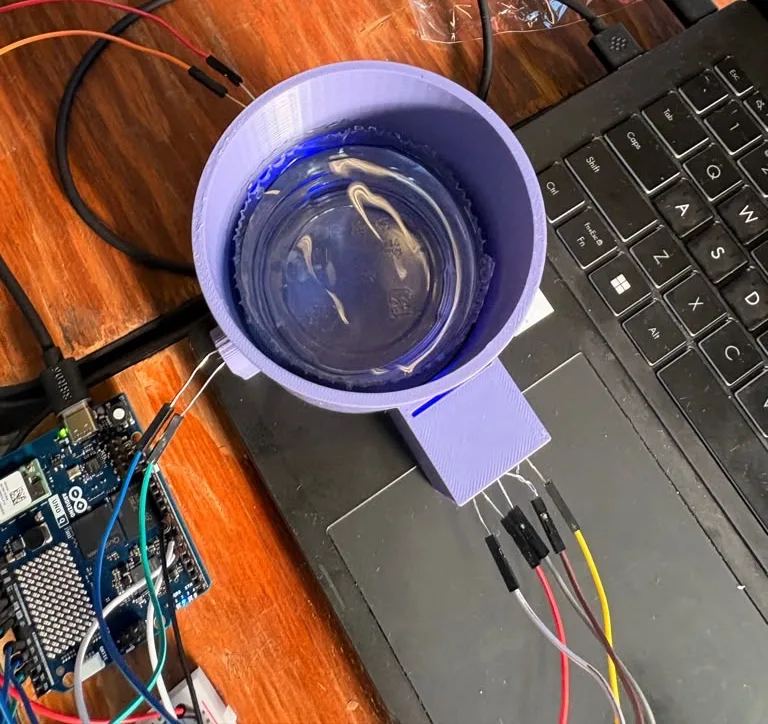
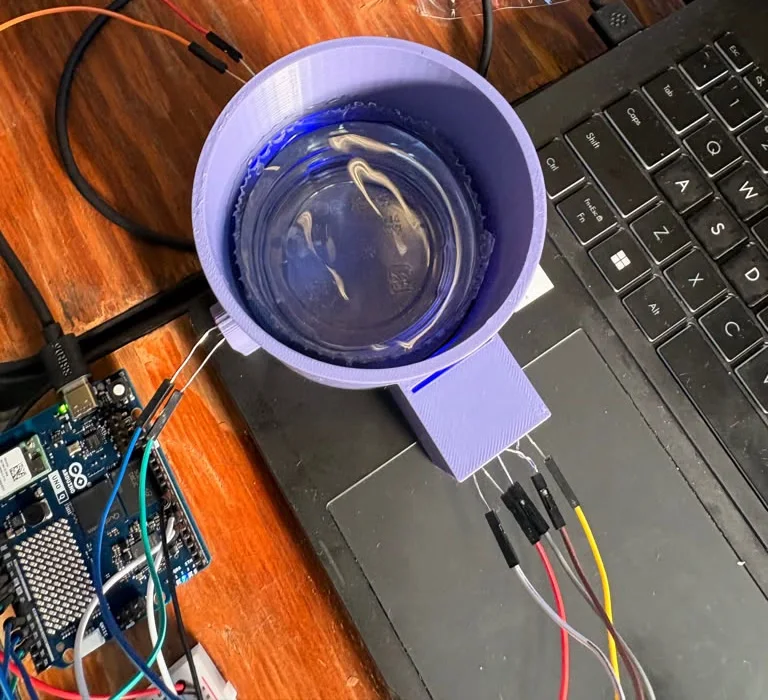
site review fixes: #demo chart fits phones (labels above bars), sticky phones only in two columns (no caption over #clinic heading), CTA gradient + muted grey + chip blue to >=4.5:1, hero-meta labels on their own line, exact verdict words in prose, nav: Limits link dropped, 'How', brand gap 32, labe

diff --git a/pill-site/index.html b/pill-site/index.html
@@ -6,7 +6,7 @@
   <title>Pill — The box measures. Pill explains.</title>
   <meta name="description" content="A dissolution check the size of a coffee mug, built from hobby parts: it dissolves one tablet and says Passed the screen, Needs lab testing or Unable to verify. Built at Cal Hacks 13.0.">
   <meta property="og:title" content="Pill — The box measures. Pill explains.">
-  <meta property="og:description" content="One tablet. A 60 s quick run, 2–10 min full. PASS / NEEDS LAB / UNABLE TO VERIFY. In clinic mode the answer holds the supplier's payment.">
+  <meta property="og:description" content="One tablet. A 60 s quick run, 2–10 min full. Passed the screen, Needs lab testing or Unable to verify. In clinic mode the answer holds the supplier's payment.">
   <meta property="og:type" content="website">
   <link rel="icon" href="/favicon.svg" type="image/svg+xml">
   <link rel="preload" href="/fonts/instrument-serif-400.woff2" as="font" type="font/woff2" crossorigin>
@@ -23,7 +23,7 @@
       <a href="#film">Film</a>
       <a href="#station">Station</a>
       <a href="#problem">Problem</a>
-      <a href="#how">How it works</a>
+      <a href="#how">How</a>
       <a href="#story">Story</a>
       <a href="#table">At the table</a>
       <a href="#verdicts">Verdicts</a>
@@ -31,7 +31,6 @@
       <a href="#clinic">Clinic</a>
       <a href="#payments">Payments</a>
       <a href="#coinbase">Coinbase</a>
-      <a href="#limits">Limits</a>
       <a href="#team">Team</a>
     </nav>
     <a class="btn nav-app" href="https://pill-app-delta.vercel.app/welcome" target="_blank" rel="noopener">Open the app <span class="arrow" aria-hidden="true">→</span></a>
@@ -114,11 +113,11 @@
       <h2 class="h2" id="built-title">Built Saturday, at the table.</h2>
       <p class="lead reveal" style="margin-top:20px">The drawing above is this station. A purple 3D-printed chamber, a clear cup of water, three LEDs, two photoresistors, an Arduino UNO Q, a breadboard and a laptop. Stirred by hand with a stick.</p>
       <div class="build-grid">
-        <figure class="build-ph build-ph--lead reveal"><img src="/photos/station-171.webp" width="768" height="724" loading="lazy" decoding="async" alt="Top view of the station with the lid off and the blue LED on: a clear plastic cup of water inside the purple printed cylinder, blue light at the near wall where the LED box is attached, jumper wires running to the LED legs and to the Arduino UNO Q on the left"><figcaption><b>Blue LED on, lid off.</b> Light from the LED box (bottom) crosses the clear cup of water in the printed well.</figcaption></figure>
+        <figure class="build-ph build-ph--lead reveal"><img src="/photos/station-171.webp" width="768" height="700" loading="lazy" decoding="async" alt="Top view of the station with the lid off and the blue LED on: a clear plastic cup of water inside the purple printed cylinder, blue light at the near wall where the LED box is attached, jumper wires running to the LED legs and to the Arduino UNO Q on the left"><figcaption><b>Blue LED on, lid off.</b> Light from the LED box (bottom) crosses the clear cup of water in the printed well.</figcaption></figure>
         <figure class="build-ph reveal"><img src="/photos/station-191.webp" width="768" height="1024" loading="lazy" decoding="async" alt="Close-up of the purple LED box on the side of the chamber: a white, a blue and a red 5 mm LED in a row with jumper wires on their legs, two empty holes above and below the blue LED, and a thin slot on top"><figcaption><b>The LED box.</b> White, blue and red 5 mm LEDs, two spare holes, the diffuser slot on top.</figcaption></figure>
         <figure class="build-ph reveal"><img src="/photos/station-102.webp" width="768" height="834" loading="lazy" decoding="async" alt="The station with its flat purple lid on, a small hole in the lid, the LED box facing the camera, a photoresistor holder on the left wall with two wires, and a breadboard with resistors and jumper wires in front"><figcaption><b>Lid on.</b> A flat printed lid with one small hole; a photoresistor holder on the left wall.</figcaption></figure>
         <figure class="build-ph reveal"><img src="/photos/station-08.webp" width="768" height="654" loading="lazy" decoding="async" alt="Side view: the photoresistor holder at 90° to the beam facing the camera, its two leads coming out through the fin, the LED box on the right, and the Arduino UNO Q on a USB-C cable in front"><figcaption><b>The 90° holder.</b> The side sensor's leads come out through the fin; the UNO Q streams over USB-C.</figcaption></figure>
-        <figure class="build-ph reveal"><img src="/photos/station-17.webp" width="768" height="724" loading="lazy" decoding="async" alt="Top view with the lid off and the LEDs off: the clear plastic cup of water sitting inside the purple printed well, the LED box below it and the UNO Q at the left edge"><figcaption><b>LEDs off.</b> The clear plastic cup sits in the well; one whole tablet goes in per test.</figcaption></figure>
+        <figure class="build-ph reveal"><img src="/photos/station-17.webp" width="768" height="700" loading="lazy" decoding="async" alt="Top view with the lid off and the LEDs off: the clear plastic cup of water sitting inside the purple printed well, the LED box below it and the UNO Q at the left edge"><figcaption><b>LEDs off.</b> The clear plastic cup sits in the well; one whole tablet goes in per test.</figcaption></figure>
         <figure class="build-ph reveal"><img src="/photos/station-10.webp" width="768" height="629" loading="lazy" decoding="async" alt="The whole station on a table: the purple chamber with its lid, the LED box with its three LEDs, the Arduino UNO Q, a breadboard covered in jumper wires, and a spare purple cup shim ring at the back"><figcaption><b>Everything.</b> Chamber, LED box, UNO Q, breadboard with the dividers, a spare cup shim ring at the back.</figcaption></figure>
       </div>
       <h3 class="h3 build-bp-title reveal">Blueprints</h3>
@@ -389,7 +388,7 @@
         <div>
           <p class="eyebrow reveal">Clinic mode</p>
           <h2 class="h2">The verdict holds the payment.</h2>
-          <p class="lead reveal">A clinic samples one tablet from each delivery. PASS proposes release; NEEDS LAB holds the money and drafts a lab referral; UNABLE TO VERIFY escalates. Every decision is logged with the lot, the time, the rule that fired and the policy clause it quotes. No money moves without a pharmacist's tap. Today every money move is simulated: USDC on Base Sepolia once a CDP key is in, with a Capital One Nessie sandbox mirror if its key lands.</p>
+          <p class="lead reveal">A clinic samples one tablet from each delivery. Passed the screen proposes release; Needs lab testing holds the money and drafts a lab referral; Unable to verify escalates. Every decision is logged with the lot, the time, the rule that fired and the policy clause it quotes. No money moves without a pharmacist's tap. Today every money move is simulated: USDC on Base Sepolia once a CDP key is in, with a Capital One Nessie sandbox mirror if its key lands.</p>
           <p class="caption reveal" style="margin-top:28px">policy.md · the six clauses the agent may quote</p>
           <ul class="list reveal">
             <li><b>P1</b><span>Release needs PASS, no recall record for the lot, amount within the spend cap, and the pharmacist's tap.</span></li>
@@ -446,7 +445,7 @@
       <div class="facts reveal" style="margin-top:40px">
         <div><b>One rail, simulated today</b><span>USDC on Base Sepolia through a CDP agent wallet; nothing moves until the CDP key is in. A Capital One Nessie sandbox mirror is built for the fiat story and runs only if its key lands. One log line per decision.</span></div>
         <div><b>What the agent can do</b><span>Propose, draft a referral, buy a verdict under $1. It cannot release: release is a human tap, every time, and the model can only downgrade a decision.</span></div>
-        <div><b>What the agent cannot do</b><span>Hold more than one delivery's value, pay anyone not on the delivery, or move anything on a NEEDS LAB or UNABLE TO VERIFY. The caps live in policy.md, in plain text.</span></div>
+        <div><b>What the agent cannot do</b><span>Hold more than one delivery's value, pay anyone not on the delivery, or move anything on Needs lab testing or Unable to verify. The caps live in policy.md, in plain text.</span></div>
       </div>
 
       <p class="eyebrow reveal" style="margin-top:72px">Pricing · proposed</p>
@@ -476,7 +475,7 @@
             <svg class="cbx-ico" viewBox="0 0 48 48" aria-hidden="true"><rect x="5" y="14" width="16" height="20" rx="4"/><rect x="27" y="14" width="16" height="20" rx="4"/><path d="M15 24 H33"/><path d="M29 20 l4 4 l-4 4"/><circle cx="24" cy="9" r="3"/></svg>
             <p class="cbx-k">01 · Pay</p>
             <h3>Escrow → supplier, in USDC on Base.</h3>
-            <p>The delivery’s money waits in escrow. On PASS, a pharmacist taps release and the agent’s CDP wallet signs the transfer to the supplier. No tap, no transfer.</p>
+            <p>The delivery’s money waits in escrow. If the tablet passed the screen, a pharmacist taps release and the agent’s CDP wallet signs the transfer to the supplier. No tap, no transfer.</p>
           </article>
           <article class="cbx-card">
             <svg class="cbx-ico" viewBox="0 0 48 48" aria-hidden="true"><rect x="8" y="10" width="32" height="28" rx="6"/><path d="M16 22 h16 M16 29 h10"/><circle cx="36" cy="36" r="7"/><path d="M36 33 v6 M33.5 36 h5"/></svg>
@@ -546,13 +545,13 @@
   <section class="section" id="limits" style="padding-top:0">
     <div class="wrap">
       <div class="chapter reveal"><span class="ch-n">11</span><span class="ch-t">What it will not claim.</span></div>
-      <p class="eyebrow reveal">Fig 5 · What PASS does not mean</p>
+      <p class="eyebrow reveal">Fig 5 · What “Passed the screen” does not mean</p>
       <h2 class="h2">Pill screens tablets. A lab has the last word.</h2>
       <div class="split" style="margin-top:40px; align-items:start">
         <div class="box reveal">
-          <h4>PASS means</h4>
+          <h4>“Passed the screen” means</h4>
           <p class="body">This one tablet, on this station, dissolved like the good tablets in its reference profile. No red flags found.</p>
-          <h4 style="margin-top:20px">PASS does not mean</h4>
+          <h4 style="margin-top:20px">“Passed the screen” does not mean</h4>
           <p class="body">That the tablet is the right drug, the right dose, or free of contaminants. Pill checks how a tablet dissolves; it does not identify ingredients. Anything it cannot compare goes to a lab, by design.</p>
         </div>
         <div class="reveal">
@@ -581,7 +580,7 @@
       <h2 class="h2">Ask us the hard ones.</h2>
       <div class="qa">
         <div class="reveal"><h4>"Why aspirin?"</h4><p>It is white, so it has no colour to measure, which is why the side sensor matters: on our first run its cloudiness signal rose by 0.29 against a blank noise of 0.006, while the red channel moved by 0.035. Riboflavin was the first plan, but it absorbs blue so strongly that a whole tablet saturates the cup.</p></div>
-        <div class="reveal"><h4>"Would this catch a real antimalarial?"</h4><p>Not today, and it says so: UNABLE TO VERIFY for any drug without a reference profile on this station. An honest "no reference" beats a guess.</p></div>
+        <div class="reveal"><h4>"Would this catch a real antimalarial?"</h4><p>Not today, and it says so: Unable to verify, for any drug without a reference profile on this station. An honest "no reference" beats a guess.</p></div>
         <div class="reveal"><h4>"How do we know the demo isn't rigged?"</h4><p>Run ids and timestamps on every curve, the raw trace saved for every run, and a station you can open and look inside. Bring your own tablet.</p></div>
         <div class="reveal"><h4>"Who lets software hold money?"</h4><p>Nobody. The policy proposes; a pharmacist taps. The model can only downgrade a decision to "escalate", never release.</p></div>
         <div class="reveal"><h4>"Why not just scan the barcode?"</h4><p>Because lot numbers get copied. The FDA's December 2025 Ozempic case carried a real lot number. Only the tablet itself cannot lie about dissolving.</p></div>

diff --git a/pill-site/src/styles.css b/pill-site/src/styles.css
@@ -12,10 +12,10 @@
   --paper-2: #EEF2F0;
   --ink: #16181B;
   --ink-2: #4A4E55;
-  --muted: #7C8188;
+  --muted: #5F646B;
   --line: rgba(22, 24, 27, 0.12);
   --blue: #4FB3FF;            /* sky */
-  --blue-ink: #2A8FE0;
+  --blue-ink: #186EB8;
   --mint: #5FD39A;            /* light green */
   --mint-ink: #2FA874;
   --sky-tint: rgba(79, 179, 255, 0.14);
@@ -142,7 +142,12 @@ button { font: inherit; }
 .reduced .typeline .caret { animation: none; }
 
 /* numbers */
-.stats { display: grid; grid-template-columns: repeat(auto-fit, minmax(220px, 1fr)); gap: 32px; margin-top: 56px; }
+.stats { display: grid; grid-template-columns: repeat(4, minmax(0, 1fr)); gap: 32px; margin-top: 56px; }
+@media (max-width: 1100px) { .stats { grid-template-columns: repeat(2, minmax(0, 1fr)); } }
+@media (max-width: 600px) { .stats { grid-template-columns: 1fr; } .spark--none { display: none; } }
+/* number · chart · text · source share rows across a line of cards */
+.stats { row-gap: 0; }
+.stats .stat { display: grid; grid-row: span 4; grid-template-rows: subgrid; row-gap: 0; align-content: start; margin-bottom: 32px; }
 .stat .big { font-family: var(--serif); font-size: clamp(56px, 7vw, 104px); line-height: .95; letter-spacing: -0.02em; }
 .stat .what { margin-top: 12px; color: var(--ink-2); max-width: 28ch; }
 .stat .src { margin-top: 10px; }
@@ -152,6 +157,8 @@ button { font: inherit; }
 .fig { background: var(--dark); padding: 32px 28px 28px; min-height: 420px; display: flex; flex-direction: column; }
 .fig .caption { color: var(--dark-muted); }
 .fig .art { flex: 1; display: grid; place-items: center; padding: 24px 0; }
+/* a fixed art box, so the headings in one row share a baseline */
+.figs > .fig:not(.fig-row):not(.fig-wide) .art { flex: none; height: 280px; }
 .fig .art svg { width: min(100%, 300px); height: auto; }
 .fig h4 { margin: 0 0 8px; font-weight: 600; font-size: 20px; letter-spacing: -0.01em; }
 .fig p { color: var(--dark-muted); font-size: 16px; line-height: 1.5; }
@@ -241,7 +248,7 @@ table.bom td:last-child { text-align: right; font-family: var(--mono); font-size
 .accounts b { display: block; font-size: 15px; margin-bottom: 4px; }
 .accounts span { font-size: 13px; color: var(--muted); line-height: 1.4; }
 .dark .accounts span { color: var(--dark-muted); }
-.phone-slot.sticky { position: sticky; top: 90px; }
+@media (min-width: 901px) { .phone-slot.sticky { position: sticky; top: 90px; } }
 @media (max-width: 640px) { .accounts { grid-template-columns: 1fr; } }
 .qa { display: grid; grid-template-columns: repeat(auto-fit, minmax(300px, 1fr)); gap: 20px; margin-top: 40px; }
 .qa > div { border: 1px solid var(--line); border-radius: 18px; padding: 24px; background: rgba(255,255,255,.4); }
@@ -251,7 +258,8 @@ table.bom td:last-child { text-align: right; font-family: var(--mono); font-size
 .fig-row .art { padding: 8px 0; }
 .fig-row .art svg { width: min(100%, 360px); }
 @media (max-width: 700px) { .fig-row { grid-template-columns: 1fr; } }
-#clinic .phone-slot, #personal .phone-slot { position: sticky; top: 84px; }
+/* sticky only beside the text; in one column a sticky phone and its caption slide over the heading */
+@media (min-width: 901px) { #clinic .phone-slot, #personal .phone-slot { position: sticky; top: 84px; } }
 
 /* ---------- colour pass: sky + mint, translucent ---------- */
 body { background: var(--paper); background-image:
@@ -275,7 +283,7 @@ body { background: var(--paper); background-image:
 .card, .box, .callout, .qa > div, .accounts > div, .facts > div { background: var(--glass); backdrop-filter: blur(10px); -webkit-backdrop-filter: blur(10px); border-color: rgba(79,179,255,.28); }
 .facts > div { background: transparent; border-color: var(--line); }
 .callout { border-left-color: var(--mint); background: linear-gradient(90deg, var(--mint-tint), var(--glass)); }
-.hero-meta div b { border-bottom: 2px solid rgba(95,211,154,.5); display: inline-block; }
+.hero-meta div b { border-bottom: 2px solid rgba(95,211,154,.5); display: block; width: fit-content; }
 .stat .big { color: var(--ink); }
 .stat { border-top: 2px solid rgba(79,179,255,.55); padding-top: 18px; }
 .stat:nth-child(even) { border-top-color: rgba(95,211,154,.6); }
@@ -283,7 +291,7 @@ table.rules th { color: var(--ink-2); border-bottom: 2px solid rgba(79,179,255,.
 table.rules td:last-child { font-family: var(--mono); font-size: 13px; }
 
 /* buttons */
-.btn { background: linear-gradient(135deg, #2F8FE6, #2FB577); border-color: transparent; color: #fff; }
+.btn { background: linear-gradient(135deg, #1D6FC0, #1C7A50); border-color: transparent; color: #fff; }
 .btn:hover { box-shadow: 0 12px 34px -14px rgba(47,143,230,.8); }
 .btn.ghost { background: rgba(79,179,255,.10); color: var(--ink); border-color: rgba(79,179,255,.35); }
 .btn.ghost:hover { background: rgba(79,179,255,.18); }
@@ -305,8 +313,17 @@ table.rules td:last-child { font-family: var(--mono); font-size: 13px; }
 .list li b { color: var(--muted); }
 .dark .list li b { color: var(--dark-muted); }
 .footer { border-top-color: rgba(79,179,255,.25); }
-.nav { background: rgba(245,246,244,.72); }
+.nav { background: rgba(245,246,244,.9); }
 .dark + .section .nav, .nav.on-dark { background: rgba(14,18,22,.72); }
 
 /* hash jumps and nav clicks land below the fixed nav */
 html { scroll-padding-top: 76px; }
+
+/* #demo chart: labels beside the bars, or above them on phones */
+#chart-mount svg { display: block; }
+#chart-mount .chart-narrow { display: none; }
+@media (max-width: 600px) { #chart-mount .chart-wide { display: none; } #chart-mount .chart-narrow { display: block; } }
+
+/* no one-word last lines on headings */
+.h2, .h3, h3, h4 { text-wrap: balance; }
+.eyebrow + .h2 { margin-top: 8px; }

diff --git a/pill-site/src/main.js b/pill-site/src/main.js
@@ -247,25 +247,30 @@ if (!reduced) {
       ['inline · red channel change', 0.035, 'var(--blue-ink)'],
       ['blank noise', 0.006, 'var(--muted)'],
     ];
-    const W = 1000, L = 300, R = 90, rowH = 64, T = 16;
-    const H = T + ROWS.length * rowH + 30;
-    const x = (v) => L + (v / 0.3) * (W - L - R);
-    const grid = [0, 0.1, 0.2, 0.3].map((v) => `<line x1="${x(v)}" x2="${x(v)}" y1="${T}" y2="${H - 30}" stroke="var(--line)"/><text x="${x(v)}" y="${H - 8}" text-anchor="middle" font-size="12" fill="var(--muted)" font-family="var(--mono)">${v.toFixed(1)}</text>`).join('');
-    const bars = ROWS.map(([label, v, c], i) => {
-      const y = T + i * rowH + 14;
-      return `<text x="${L - 16}" y="${y + 21}" text-anchor="end" font-size="15" fill="var(--ink)" font-family="var(--sans)">${label}</text>
-        <rect x="${L}" y="${y}" width="${Math.max(3, x(v) - L).toFixed(1)}" height="32" rx="8" fill="${c}" data-bar/>
-        <text x="${(Math.max(3, x(v) - L) + L + 12).toFixed(1)}" y="${y + 21}" font-size="15" fill="var(--ink)" font-family="var(--mono)">${v}</text>`;
-    }).join('');
+    // two drawings of the same three numbers: labels beside the bars on wide screens, above them on phones
+    const chart = (narrow) => {
+      const W = narrow ? 360 : 1000, L = narrow ? 0 : 300, R = narrow ? 56 : 90, rowH = narrow ? 70 : 64, T = 16;
+      const H = T + ROWS.length * rowH + 30;
+      const x = (v) => L + (v / 0.3) * (W - L - R);
+      const grid = [0, 0.1, 0.2, 0.3].map((v) => `<line x1="${x(v)}" x2="${x(v)}" y1="${T}" y2="${H - 30}" stroke="var(--line)"/><text x="${x(v)}" y="${H - 8}" text-anchor="${narrow && v === 0 ? 'start' : 'middle'}" font-size="12" fill="var(--muted)" font-family="var(--mono)">${v.toFixed(1)}</text>`).join('');
+      const bars = ROWS.map(([label, v, c], i) => {
+        const y = T + i * rowH + (narrow ? 26 : 14), w = Math.max(3, x(v) - L).toFixed(1);
+        const lab = narrow
+          ? `<text x="0" y="${y - 9}" font-size="14" fill="var(--ink)" font-family="var(--sans)">${label}</text>`
+          : `<text x="${L - 16}" y="${y + 21}" text-anchor="end" font-size="15" fill="var(--ink)" font-family="var(--sans)">${label}</text>`;
+        return `${lab}
+        <rect x="${L}" y="${y}" width="${w}" height="${narrow ? 26 : 32}" rx="8" fill="${c}" data-bar/>
+        <text x="${(+w + L + 10).toFixed(1)}" y="${y + (narrow ? 18 : 21)}" font-size="15" fill="var(--ink)" font-family="var(--mono)">${v}</text>`;
+      }).join('');
+      return `<svg class="${narrow ? 'chart-narrow' : 'chart-wide'}" viewBox="0 0 ${W} ${H}" width="100%" role="img" aria-label="Bar chart of the first real aspirin run: the side sensor's cloudiness signal rose by 0.29, the red channel changed by 0.035, and the blank noise was 0.006">${grid}${bars}</svg>`;
+    };
     mount.innerHTML = `
       <div class="box" style="padding:20px 20px 12px">
         <div style="display:flex; justify-content:space-between; align-items:center; gap:12px; flex-wrap:wrap; margin-bottom:8px">
           <p class="caption">first real aspirin run · signal change, as the station app reports it</p>
           <p class="caption">runs/REAL_aspirin_first_test.csv · measured, not modelled</p>
         </div>
-        <div class="table-scroll"><svg viewBox="0 0 ${W} ${H}" width="100%" style="min-width:560px" role="img" aria-label="Bar chart of the first real aspirin run: the side sensor's cloudiness signal rose by 0.29, the red channel changed by 0.035, and the blank noise was 0.006">
-          ${grid}${bars}
-        </svg></div>
+        ${chart(false)}${chart(true)}
       </div>`;
     if (!reduced) {
       const rects = mount.querySelectorAll('[data-bar]');

diff --git a/pill-site/src/pay.js b/pill-site/src/pay.js
@@ -44,13 +44,13 @@ function railSvg() {
   return `
   <svg class="rail-svg" viewBox="0 0 640 230" role="img" aria-label="Clinic wallet, Pill escrow and supplier wallet, with the amount moving between them by verdict">
     <g class="w1"><rect class="node" x="10" y="60" width="180" height="110" rx="16"/>
-      <text class="lbl" x="28" y="92">Clinic</text><text class="sub" x="28" y="110">pill-clinic · invoice units</text>
+      <text class="lbl" x="28" y="92">Clinic</text><text class="sub" x="28" y="110">pill-clinic wallet</text>
       <text class="amt" x="28" y="150" id="rail-clinic">8,760.00</text></g>
     <g class="w2"><rect class="node escrow" id="rail-escrow-node" x="230" y="60" width="180" height="110" rx="16"/>
       <text class="lbl" x="248" y="92">Pill escrow</text><text class="sub" x="248" y="110" id="rail-escrow-sub">holds until verdict + tap</text>
       <text class="amt" x="248" y="150" id="rail-escrow">1,240.00</text></g>
     <g class="w3"><rect class="node" x="450" y="60" width="180" height="110" rx="16"/>
-      <text class="lbl" x="468" y="92">Supplier</text><text class="sub" x="468" y="110">pill-supplier · invoice units</text>
+      <text class="lbl" x="468" y="92">Supplier</text><text class="sub" x="468" y="110">pill-supplier wallet</text>
       <text class="amt" x="468" y="150" id="rail-supplier">0.00</text></g>
     <path class="wire" id="wire-a" d="M190 115 H230"/>
     <path class="wire" id="wire-b" d="M410 115 H450"/>
@@ -141,16 +141,18 @@ export function mountX402(el) {
   el.innerHTML = `
     <h4>Pay-per-verdict, with x402</h4>
     <p>Another clinic, an NGO, or someone else's station can send a curve and buy a verdict for a few cents. No account, no key exchange: the server answers 402, the wallet pays, the server answers 200.</p>
-    <div class="term" id="x402-term" aria-live="polite">${X402_LINES.map(([c, t]) => `<span class="line ${c}">${esc(t)}</span>`).join('')}</div>
+    <div class="term" id="x402-term" aria-live="polite"><span class="idle">$ ready · press Call /verify to replay the 402 → sign → 200 exchange<i aria-hidden="true"></i></span>${X402_LINES.map(([c, t]) => `<span class="line ${c}">${esc(t)}</span>`).join('')}</div>
     <div class="row"><button type="button" class="pbtn-call" id="x402-run">Call /verify</button><button type="button" class="pbtn-call alt" id="x402-reset">Reset</button><span class="caption" style="margin:0">testnet · 0.05 USDC · simulated here · the paid 200 is pending</span></div>`;
   const lines = [...el.querySelectorAll('.line')];
   const run = el.querySelector('#x402-run');
   const reset = el.querySelector('#x402-reset');
   let timers = [];
   const stop = () => { timers.forEach(clearTimeout); timers = []; };
-  const doReset = () => { stop(); lines.forEach((l) => l.classList.remove('on')); };
+  const term = el.querySelector('#x402-term');
+  const doReset = () => { stop(); lines.forEach((l) => l.classList.remove('on')); term.classList.remove('running'); };
   const play = () => {
     doReset();
+    term.classList.add('running');
     const step = reduced ? 0 : 520;
     lines.forEach((l, i) => timers.push(setTimeout(() => { l.classList.add('on'); }, i * step)));
   };

diff --git a/pill-site/src/story.css b/pill-site/src/story.css
@@ -35,6 +35,9 @@
 @media (max-width: 1100px) { .nav-links { display: none; } .nav-ch { display: flex; max-width: 40vw; } }
 .nav-app { padding: 8px 14px; font-size: 13px; min-height: 36px; margin-left: 14px; flex: none; }
 .nav .wrap { gap: 12px; }
+.nav .brand { margin-right: 20px; }
+/* without the links: brand left; chapter label and the app button together on the right */
+@media (max-width: 1100px) { .nav-ch { order: 1; margin-left: auto; } .nav-app { order: 2; } }
 @media (max-width: 520px) { .nav-ch { display: none; } }
 .reduced .nav-links a::after { transition: none; }
 
@@ -176,11 +179,11 @@
 @media (max-width: 560px) { .hm { grid-template-columns: 40px repeat(7, minmax(0, 1fr)); gap: 4px; } .hm-c { height: 30px; border-radius: 6px; } .hm-c em { display: none; } .hm-col { font-size: 9.5px; } .hm-row { font-size: 9.5px; } }
 
 /* ---------- stats band sparks ---------- */
-.spark { margin-top: 16px; max-width: 250px; }
+.spark { margin-top: 16px; max-width: 250px; min-height: 84px; }
 .spark svg { width: 100%; height: auto; overflow: visible; }
 .spark svg * { transform-box: fill-box; transform-origin: 50% 100%; }
 .sp-bar { fill: rgba(79,179,255,.38); }
-.sp-hot { fill: var(--lab); }
+.sp-hot { fill: var(--ink); }  /* red is kept for recall / held */
 .sp-bar--sky { fill: rgba(95,211,154,.5); }
 .sp-axis { stroke: rgba(22,24,27,.2); stroke-width: 1; }
 .sp-range { fill: rgba(79,179,255,.2); stroke: rgba(42,143,224,.6); stroke-width: 1; }
@@ -285,6 +288,8 @@
 
 /* ---------- Built Saturday: photo grid + blueprints ---------- */
 .build-grid { display: grid; grid-template-columns: repeat(3, minmax(0, 1fr)); gap: clamp(14px, 2vw, 24px); margin-top: 40px; }
+/* the photos are 768 px wide: cap the grid so the lead (two columns) never shows them above 1× */
+.build-grid { max-width: 1120px; }
 .build-ph { margin: 0; min-width: 0; }
 .build-ph img { display: block; width: 100%; height: auto; aspect-ratio: 4 / 3; object-fit: cover; border-radius: 18px; background: #1B2026; }
 .build-ph--lead { grid-column: span 2; grid-row: span 2; }

diff --git a/pill-site/src/art.js b/pill-site/src/art.js
@@ -165,7 +165,7 @@ art.calibration = wrap(`
 export function artFor(key) { return art[key] || ''; }
 
 /* ---------- stats band: small charts under each number ---------- */
-// 0 and 1 draw the sourced figure to scale; 2 and 3 are decorative. All are labelled.
+// 0 and 1 draw the sourced figure to scale; 2 and 3 get an empty slot (no invented trend lines).
 export function statSpark(i) {
   const W = 240, H = 56;
   const svg = (inner, note) => `<div class="spark" aria-hidden="true"><svg viewBox="0 0 ${W} ${H}" preserveAspectRatio="none">${inner}</svg><p class="spark-note">${note}</p></div>`;
@@ -181,15 +181,8 @@ export function statSpark(i) {
       <line class="sp-mark" x1="${x(116000)}" x2="${x(116000)}" y1="22" y2="56"/>
       <circle class="sp-dot" cx="${x(116000)}" cy="40" r="5"/>`, 'illustration · modelled range 64k–158k, to scale');
   }
-  if (i === 2) {
-    const pts = [6, 8, 7, 11, 10, 14, 19, 17, 24, 31, 28, 36, 42, 39, 47];
-    const step = W / (pts.length - 1);
-    const line = pts.map((v, k) => `${(k * step).toFixed(1)} ${(H - 4 - v).toFixed(1)}`).join(' L');
-    return svg(`<path class="sp-area" d="M0 ${H} L${line} L${W} ${H} Z"/><path class="sp-line" d="M${line}"/>`, 'illustration · not data');
-  }
-  const vals = [18, 22, 20, 26, 24, 30, 28, 34, 33, 38, 41, 44];
-  const bw = 14, gap = (W - vals.length * bw) / (vals.length - 1);
-  return svg(vals.map((v, k) => `<rect class="sp-bar sp-bar--sky" x="${(k * (bw + gap)).toFixed(1)}" y="${H - v}" width="${bw}" height="${v}" rx="3"/>`).join(''), 'illustration · not data');
+  // 2 and 3 have no sourced series to draw; an empty slot keeps the text rows aligned
+  return '<div class="spark spark--none" aria-hidden="true"></div>';
 }
 
 /* ---------- clinic: a day on one timeline, from the app's demo deliveries ---------- */

diff --git a/pill-site/src/pay.css b/pill-site/src/pay.css
@@ -45,6 +45,10 @@
 .x402 p { margin: 0 0 14px; color: var(--ink-2); font-size: 16px; }
 .x402 .term { font-family: var(--mono); font-size: 12.5px; line-height: 1.75; background: var(--dark); color: var(--dark-text); border-radius: 14px; padding: 14px 16px; min-height: 170px; white-space: pre-wrap; border: 1px solid var(--dark-line); }
 .x402 .term .c { color: var(--dark-muted); }
+.x402 .term { position: relative; }
+.x402 .term .idle { position: absolute; left: 16px; right: 16px; top: 14px; color: var(--dark-text); }
+.x402 .term .idle i { display: inline-block; width: .55em; height: 1em; margin-left: 4px; vertical-align: -.15em; background: var(--dark-text); opacity: .7; }
+.x402 .term.running .idle { display: none; }
 .x402 .term .k { color: #fff; }
 .x402 .term .line { display: block; opacity: 0; transform: translateY(4px); }
 .x402 .term .line.on { opacity: 1; transform: none; transition: opacity .3s, transform .3s; }

diff --git a/pill-site/src/phone.js b/pill-site/src/phone.js
@@ -44,11 +44,12 @@ export const PHONE_SEQUENCES = {
     ['released', 4800],
     ['recall', 8000],
   ],
+  // personal opens on its own screen (My medicines), so it never mirrors the clinic phone's first frame
   personal: [
+    ['medicines', 5600],
     ['bottle', 8000],
     ['scan', 5400, { lot: 'B2-07' }],
     ['pass', 3200],
-    ['medicines', 5600],
     ['calibration', 8000],
   ],
 };

diff --git a/pill-site/src/phone.css b/pill-site/src/phone.css
@@ -682,6 +682,7 @@
   text-align: center;
   text-wrap: balance;
 }
+.section:not(.dark) .phone__caption { color: var(--ink-2); }
 
 @media (prefers-reduced-motion: reduce) {
   .pv__live i { animation: none; }
